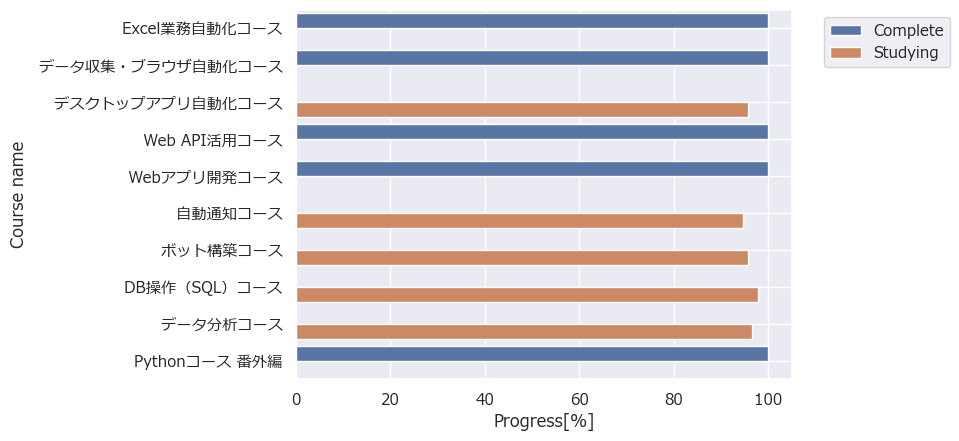
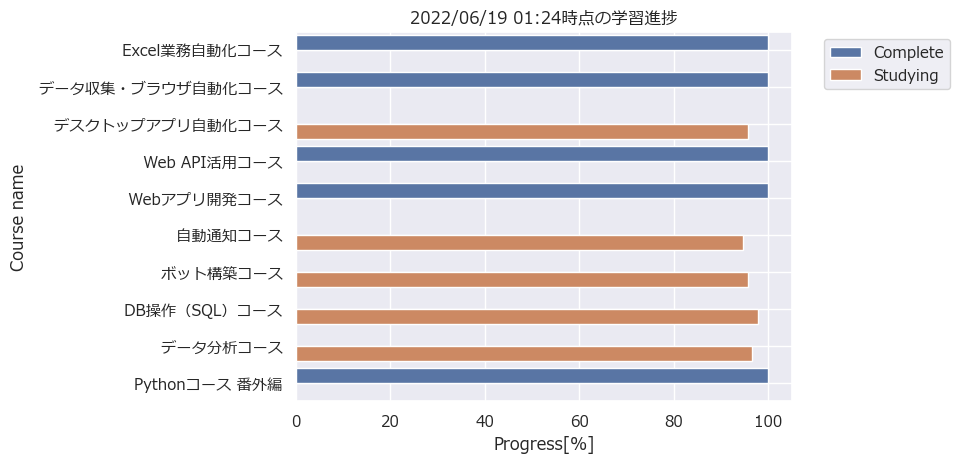
出力グラフタイトル部に取得日時埋め込み

diff --git a/streamlit_app.py b/streamlit_app.py
@@ -1,4 +1,5 @@
 import json
+from datetime import datetime
 from time import sleep
 
 import matplotlib.pyplot as plt
@@ -119,6 +120,9 @@ def create_barplot_progress(df):
     # plt.figure(figsize=(6, 5))
     sns.barplot(data=df, y=df['Course name'], x=df['Progress[%]'], palette='deep', hue=df['Status'], ax=ax)
     plt.grid()
+    _time_stamp = datetime.now()
+    time_stamp = _time_stamp.strftime('%Y/%m/%d %H:%M')
+    plt.title(f'{time_stamp}時点の学習進捗')
     plt.legend(loc='upper left', bbox_to_anchor=(1.05, 1.0))
     plt.savefig('progress_bar.png', bbox_inches='tight')
     return fig, ax

diff --git a/README.md b/README.md
@@ -4,3 +4,5 @@
 - 2022/06/14
   - 追加 chromedriver win32 103.0.5060.24
   - chromeヘッドレスモードで取得エラーのため、ブラウザ起動モードをデフォルトへ 
+- 2022/06/18
+  - 出力グラフタイトル部に取得日時埋め込み
